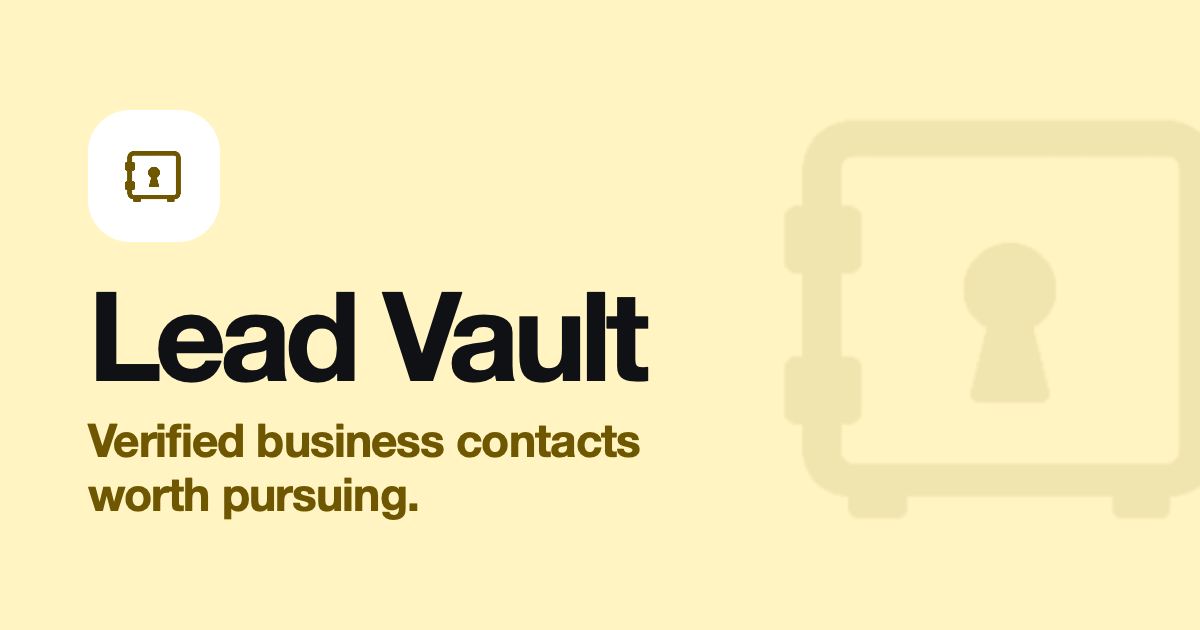
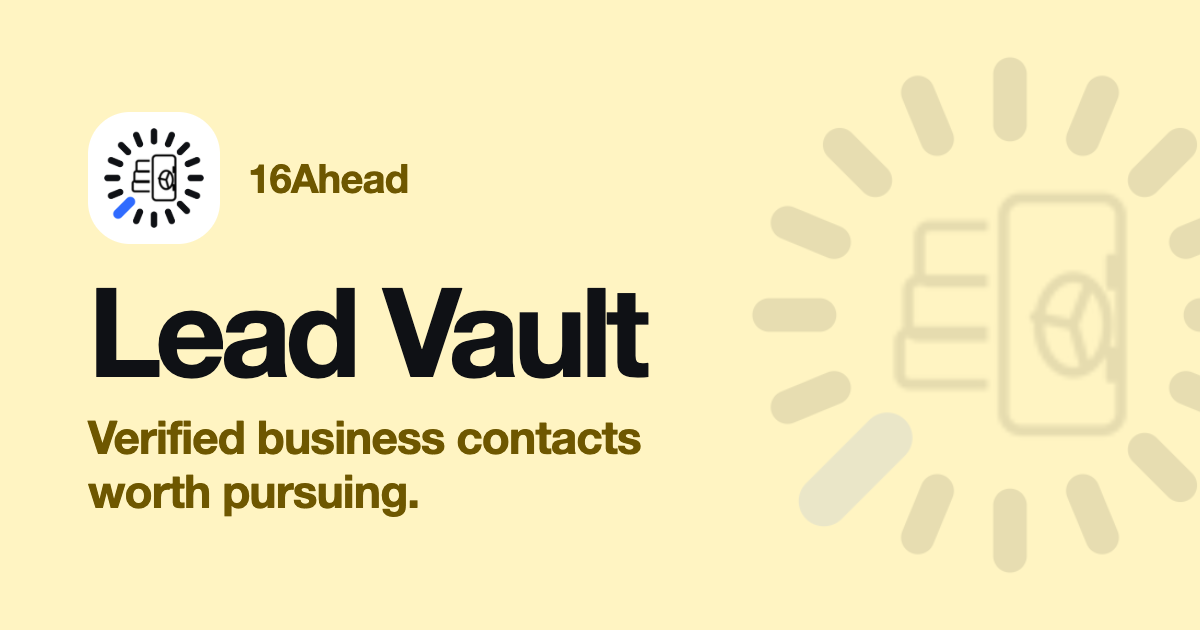
16ahead migration

diff --git a/src/app/shared/page/command-palette/command-palette-entries.ts b/src/app/shared/page/command-palette/command-palette-entries.ts
@@ -20,18 +20,18 @@ export const COMMAND_PALETTE_ENTRIES: CommandPaletteEntry[] = [
   { id: 'lead-vault-cancel', label: 'Purchase Cancelled', group: 'Lead Vault', path: '/cancel', keywords: ['cancel', 'cancelled', 'checkout cancelled', 'purchase cancelled'] },
 
   // --- Other Apps -----------------------------------------------------------
-  { id: 'app-maya', label: 'Maya', group: 'Other Apps', path: 'https://maya.taliferro.tech', icon: 'assets/find/entities/maya/logo-bw-icon.png', external: true, keywords: ['maya', 'marketing director'] },
-  { id: 'app-todd', label: 'Ask TODD', group: 'Other Apps', path: 'https://ask.taliferro.tech', icon: 'assets/find/entities/todd/logo-bw-icon.png', external: true, keywords: ['todd', 'ask todd', 'assistant', 'chat'] },
-  { id: 'app-docs', label: 'Docs', group: 'Other Apps', path: 'https://docs.taliferro.tech', icon: 'assets/find/entities/docs/logo-bw-icon.png', external: true, keywords: ['docs', 'documents', 'proposals', 'contracts'] },
-  { id: 'app-signature', label: 'Email Signature Builder', group: 'Other Apps', path: 'https://signature.taliferro.tech', icon: 'assets/find/entities/email-signature-builder/logo-bw-icon.png', external: true, keywords: ['email signature', 'signature builder'] },
-  { id: 'app-image-creator', label: 'Image Creator', group: 'Other Apps', path: 'https://images.taliferro.tech', icon: 'assets/find/entities/image-creator/logo-bw-icon.svg', external: true, keywords: ['image creator', 'images', 'generate image', 'logo', 'icon', 'banner'] },
-  { id: 'app-email-creator', label: 'Email Creator', group: 'Other Apps', path: 'https://emails.taliferro.tech', icon: 'assets/find/entities/email-creator/logo-bw-icon.svg', external: true, keywords: ['email creator', 'email design', 'newsletter', 'html email', 'template', 'announcement'] },
-  { id: 'app-find', label: 'Find', group: 'Other Apps', path: 'https://find.taliferro.tech', icon: 'assets/find/entities/find/logo-bw-icon.png', external: true, keywords: ['find', 'ask a question'] },
-  { id: 'app-moves', label: 'Moves', group: 'Other Apps', path: 'https://moves.taliferro.tech', icon: 'assets/find/entities/moves/logo-bw-icon.png', external: true, keywords: ['moves', 'tasks', 'projects', 'to-dos'] },
-  { id: 'app-network', label: 'Network', group: 'Other Apps', path: 'https://network.taliferro.tech', icon: 'assets/find/entities/network/logo-bw-icon.png', external: true, keywords: ['network', 'contacts', 'crm', 'relationships'] },
-  { id: 'app-outreach', label: 'Outreach', group: 'Other Apps', path: 'https://outreach.taliferro.tech', icon: 'assets/find/entities/outreach/logo-bw-icon.png', external: true, keywords: ['outreach', 'campaigns', 'sequences', 'email marketing'] },
-  { id: 'app-pulse', label: 'Pulse', group: 'Other Apps', path: 'https://pulse.taliferro.tech', icon: 'assets/find/entities/pulse/logo-bw-icon.png', external: true, keywords: ['pulse', 'surveys', 'feedback', 'nps'] },
-  { id: 'app-sayit', label: 'SayIt', group: 'Other Apps', path: 'https://sayit.taliferro.tech', icon: 'assets/find/entities/sayit/logo-bw-icon.png', external: true, keywords: ['sayit', 'say it'] },
-  { id: 'app-social', label: 'Social', group: 'Other Apps', path: 'https://social.taliferro.tech', icon: 'assets/find/entities/social/logo-bw-icon.png', external: true, keywords: ['social', 'social media'] },
+  { id: 'app-maya', label: 'Marketing Assistant', group: 'Other Apps', path: 'https://marketing.16ahead.com', icon: 'assets/find/entities/maya/logo-bw-icon.png', external: true, keywords: ['maya', 'marketing director'] },
+  { id: 'app-todd', label: 'General Assistant', group: 'Other Apps', path: 'https://assistant.16ahead.com', icon: 'assets/find/entities/todd/logo-bw-icon.png', external: true, keywords: ['todd', 'ask todd', 'assistant', 'chat'] },
+  { id: 'app-docs', label: 'Docs', group: 'Other Apps', path: 'https://docs.16ahead.com', icon: 'assets/find/entities/docs/logo-bw-icon.png', external: true, keywords: ['docs', 'documents', 'proposals', 'contracts'] },
+  { id: 'app-signature', label: 'Email Signature Builder', group: 'Other Apps', path: 'https://signature.16ahead.com', icon: 'assets/find/entities/email-signature-builder/logo-bw-icon.png', external: true, keywords: ['email signature', 'signature builder'] },
+  { id: 'app-image-creator', label: 'Image Creator', group: 'Other Apps', path: 'https://images.16ahead.com', icon: 'assets/find/entities/image-creator/logo-bw-icon.svg', external: true, keywords: ['image creator', 'images', 'generate image', 'logo', 'icon', 'banner'] },
+  { id: 'app-email-creator', label: 'Email Creator', group: 'Other Apps', path: 'https://emails.16ahead.com', icon: 'assets/find/entities/email-creator/logo-bw-icon.svg', external: true, keywords: ['email creator', 'email design', 'newsletter', 'html email', 'template', 'announcement'] },
+  { id: 'app-find', label: 'Find', group: 'Other Apps', path: 'https://find.16ahead.com', icon: 'assets/find/entities/find/logo-bw-icon.png', external: true, keywords: ['find', 'ask a question'] },
+  { id: 'app-moves', label: 'Moves', group: 'Other Apps', path: 'https://moves.16ahead.com', icon: 'assets/find/entities/moves/logo-bw-icon.png', external: true, keywords: ['moves', 'tasks', 'projects', 'to-dos'] },
+  { id: 'app-network', label: 'Network', group: 'Other Apps', path: 'https://network.16ahead.com', icon: 'assets/find/entities/network/logo-bw-icon.png', external: true, keywords: ['network', 'contacts', 'crm', 'relationships'] },
+  { id: 'app-outreach', label: 'Outreach', group: 'Other Apps', path: 'https://outreach.16ahead.com', icon: 'assets/find/entities/outreach/logo-bw-icon.png', external: true, keywords: ['outreach', 'campaigns', 'sequences', 'email marketing'] },
+  { id: 'app-pulse', label: 'Pulse', group: 'Other Apps', path: 'https://pulse.16ahead.com', icon: 'assets/find/entities/pulse/logo-bw-icon.png', external: true, keywords: ['pulse', 'surveys', 'feedback', 'nps'] },
+  { id: 'app-sayit', label: 'SayIt', group: 'Other Apps', path: 'https://sayit.16ahead.com', icon: 'assets/find/entities/sayit/logo-bw-icon.png', external: true, keywords: ['sayit', 'say it'] },
+  { id: 'app-social', label: 'Social', group: 'Other Apps', path: 'https://social.16ahead.com', icon: 'assets/find/entities/social/logo-bw-icon.png', external: true, keywords: ['social', 'social media'] },
   { id: 'app-music', label: 'Taliferro Music', group: 'Other Apps', path: 'https://music.taliferro.com', icon: 'assets/find/entities/music/logo-bw-icon.png', external: true, newTab: true, keywords: ['music', 'stream music'] },
 ];

diff --git a/src/app/features/full-record-page/full-record-page.component.ts b/src/app/features/full-record-page/full-record-page.component.ts
@@ -42,7 +42,7 @@ import { LoggerService } from '../../services/logger.service';
  *    - an in-app TODD route. Per the plan's decision, Outreach/email-
  *    composition isn't part of either extracted product, so this is now a
  *    real cross-app navigation to the monorepo's own production domain
- *    (https://todd.taliferro.tech/compose-email, confirmed from the
+ *    (https://app.16ahead.com/compose-email, confirmed from the
  *    monorepo's own environment.prod.ts PLATFORM_URL - not a guess). Best-
  *    effort query params (email/firstName/lastName/company) are attached
  *    in case the monorepo's compose-email flow ever reads them, but there
@@ -64,7 +64,7 @@ import { LoggerService } from '../../services/logger.service';
 } )
 export class FullRecordPageComponent implements OnInit {
   /** The monorepo's real production domain - see header comment. */
-  readonly toddHomeUrl = 'https://todd.taliferro.tech';
+  readonly toddHomeUrl = 'https://app.16ahead.com';
 
   recordId = '';
   purchaserEmail = '';
@@ -169,7 +169,7 @@ export class FullRecordPageComponent implements OnInit {
 
     if ( !this.purchaserEmail ) {
       this.isLoading = false;
-      this.errorMessage = 'Sign in with TODD, or open this lead from the email you purchased it with.';
+      this.errorMessage = 'Sign in with 16Ahead, or open this lead from the email you purchased it with.';
       return;
     }
 
@@ -317,7 +317,7 @@ export class FullRecordPageComponent implements OnInit {
     }
 
     if ( !this.accessState.isPaidUser && !this.accessState.canAddContact ) {
-      this.actionErrorMessage = 'Adding leads to TODD needs a Network subscription.';
+      this.actionErrorMessage = 'Adding leads to 16Ahead needs a Network subscription.';
       return;
     }
 
@@ -334,19 +334,19 @@ export class FullRecordPageComponent implements OnInit {
       const tenantId = uid ? await this.authService.resolveTenantId( uid ) : '';
 
       if ( !tenantId ) {
-        this.actionErrorMessage = 'Unable to resolve your TODD tenant. Please sign in again.';
+        this.actionErrorMessage = 'Unable to resolve your 16Ahead tenant. Please sign in again.';
         return;
       }
 
       const existingId = await this.dataService.getContactIdByEmail( tenantId, newContact.email || '' );
 
       if ( existingId ) {
-        this.actionMessage = 'This lead is already in TODD.';
+        this.actionMessage = 'This lead is already in 16Ahead.';
         return;
       }
 
       await this.dataService.addContact( tenantId, newContact );
-      this.actionMessage = 'Lead added to TODD.';
+      this.actionMessage = 'Lead added to 16Ahead.';
       await this.refreshAccessState();
     } catch ( error: any ) {
       if ( this.contactPackService.isContactLimitError( error ) ) {
@@ -361,7 +361,7 @@ export class FullRecordPageComponent implements OnInit {
         return;
       }
 
-      this.actionErrorMessage = error?.message || 'Unable to add this lead to TODD.';
+      this.actionErrorMessage = error?.message || 'Unable to add this lead to 16Ahead.';
     } finally {
       this.addToToddInProgress = false;
     }
@@ -374,7 +374,7 @@ export class FullRecordPageComponent implements OnInit {
    */
   onComposeInToddFromLead ( event?: { contact: Contact | null; emailAddress: string | undefined; } ): void {
     if ( !this.accessState?.isLoggedIn ) {
-      this.actionErrorMessage = 'Sign in to email this lead in TODD.';
+      this.actionErrorMessage = 'Sign in to email this lead in 16Ahead.';
       return;
     }
 
@@ -759,7 +759,7 @@ export class FullRecordPageComponent implements OnInit {
         this.recommendationErrorMessage = '';
         this.isLoading = false;
         this.errorMessage = error?.status === 403
-          ? `No access to this lead for ${this.purchaserEmail}. Sign in with a TODD Suite account, or unlock it from the preview.`
+          ? `No access to this lead for ${this.purchaserEmail}. Sign in with a 16Ahead Suite account, or unlock it from the preview.`
           : error?.error?.message ||
             error?.message ||
             'Lead Vault full record failed.';

diff --git a/src/app/features/full-record-page/full-record-page.component.html b/src/app/features/full-record-page/full-record-page.component.html
@@ -7,7 +7,7 @@
 
   <div class="lvf-gate" *ngIf="errorMessage">
     <p class="lv-error" role="alert">{{ errorMessage }}</p>
-    <button *ngIf="!accessState?.isLoggedIn" type="button" class="lv-btn lv-btn--primary" (click)="signInToTodd()">Sign in with TODD</button>
+    <button *ngIf="!accessState?.isLoggedIn" type="button" class="lv-btn lv-btn--primary" (click)="signInToTodd()">Sign in with 16Ahead</button>
   </div>
   <app-preloader [isLoading]="isLoading" message="Loading full record…"></app-preloader>
 
@@ -32,9 +32,9 @@
           <svg class="lv-icon" viewBox="0 0 24 24" aria-hidden="true"><path d="M15 2H6a2 2 0 0 0-2 2v16a2 2 0 0 0 2 2h12a2 2 0 0 0 2-2V7Z"/><path d="M14 2v4a2 2 0 0 0 2 2h4"/></svg>Copy full record
         </button>
         <button *ngIf="accessState?.isLoggedIn" type="button" class="lv-btn lv-btn--primary" [disabled]="addToToddInProgress" (click)="addToTodd()">
-          <svg class="lv-icon" viewBox="0 0 24 24" aria-hidden="true"><path d="M12 5v14M5 12h14"/></svg>{{ addToToddInProgress ? 'Adding…' : 'Add to TODD' }}
+          <svg class="lv-icon" viewBox="0 0 24 24" aria-hidden="true"><path d="M12 5v14M5 12h14"/></svg>{{ addToToddInProgress ? 'Adding…' : 'Add to 16Ahead' }}
         </button>
-        <button *ngIf="!accessState?.isLoggedIn" type="button" class="lv-btn lv-btn--primary" (click)="signInToTodd()">Sign in to add this lead to TODD</button>
+        <button *ngIf="!accessState?.isLoggedIn" type="button" class="lv-btn lv-btn--primary" (click)="signInToTodd()">Sign in to add this lead to 16Ahead</button>
       </div>
     </div>
 
@@ -61,9 +61,9 @@
     <!-- iPhone (14l): one big Add to TODD, a 3-up action grid, then the recommendation row. -->
     <div class="lvf-phone-actions">
       <button *ngIf="accessState?.isLoggedIn" type="button" class="lv-btn lv-btn--primary lvf-phone-add" [disabled]="addToToddInProgress" (click)="addToTodd()">
-        <svg class="lv-icon" viewBox="0 0 24 24" aria-hidden="true"><path d="M12 5v14M5 12h14"/></svg>{{ addToToddInProgress ? 'Adding…' : 'Add to TODD' }}
+        <svg class="lv-icon" viewBox="0 0 24 24" aria-hidden="true"><path d="M12 5v14M5 12h14"/></svg>{{ addToToddInProgress ? 'Adding…' : 'Add to 16Ahead' }}
       </button>
-      <button *ngIf="!accessState?.isLoggedIn" type="button" class="lv-btn lv-btn--primary lvf-phone-add" (click)="signInToTodd()">Sign in to add this lead to TODD</button>
+      <button *ngIf="!accessState?.isLoggedIn" type="button" class="lv-btn lv-btn--primary lvf-phone-add" (click)="signInToTodd()">Sign in to add this lead to 16Ahead</button>
       <div class="lvf-tiles">
         <button type="button" (click)="downloadCsv()"><svg class="lv-icon" viewBox="0 0 24 24" aria-hidden="true"><path d="M21 15v4a2 2 0 0 1-2 2H5a2 2 0 0 1-2-2v-4M7 10l5 5 5-5M12 15V3"/></svg>CSV</button>
         <button type="button" (click)="copyEmail()"><svg class="lv-icon" viewBox="0 0 24 24" aria-hidden="true"><rect width="14" height="14" x="8" y="8" rx="2"/><path d="M4 16c-1.1 0-2-.9-2-2V4c0-1.1.9-2 2-2h10c1.1 0 2 .9 2 2"/></svg>Copy email</button>
@@ -126,7 +126,7 @@
             <span class="lv-chip" *ngFor="let capability of record.company?.capabilities">{{ capability }}</span>
           </div>
         </ng-container>
-        <p class="lvf-note" *ngIf="accessState?.isLoggedIn && !accessState?.isPaidUser">Adding leads to TODD needs a Network subscription.</p>
+        <p class="lvf-note" *ngIf="accessState?.isLoggedIn && !accessState?.isPaidUser">Adding leads to 16Ahead needs a Network subscription.</p>
       </section>
 
       <section class="lvf-rec" id="lvf-recommendation" aria-labelledby="lvf-rec-title">

diff --git a/src/index.html b/src/index.html
@@ -2,28 +2,28 @@
 <html lang="en">
 <head>
   <meta charset="utf-8">
-  <title>Lead Vault — Find better business leads | Taliferro Tech</title>
+  <title>Lead Vault — Find better business leads | 16Ahead</title>
   <base href="/">
   <meta name="viewport" content="width=device-width, initial-scale=1">
   <meta name="description" content="Search curated and enriched business contacts by company, industry, capability, or buying signal. Find the right lead and unlock the context to start a better conversation.">
   <meta name="robots" content="index, follow">
-  <link rel="canonical" href="https://lead-vault.taliferro.tech/">
+  <link rel="canonical" href="https://lead-vault.16ahead.com/">
 
   <meta property="og:type" content="website">
-  <meta property="og:title" content="Lead Vault — Find better business leads">
+  <meta property="og:site_name" content="16Ahead">
+  <meta property="og:title" content="16Ahead Lead Vault">
   <meta property="og:description" content="Verified business contacts worth pursuing.">
-  <meta property="og:url" content="https://lead-vault.taliferro.tech/">
-  <meta property="og:site_name" content="Taliferro Tech">
-
-  <meta name="twitter:card" content="summary_large_image">
-  <meta name="twitter:title" content="Lead Vault — Find better business leads">
-  <meta name="twitter:description" content="Verified business contacts worth pursuing.">
-  <meta property="og:image" content="https://lead-vault.taliferro.tech/assets/og-image.png">
+  <meta property="og:url" content="https://lead-vault.16ahead.com/">
+  <meta property="og:image" content="https://lead-vault.16ahead.com/assets/og-image.png">
   <meta property="og:image:width" content="1200">
   <meta property="og:image:height" content="630">
-  <meta property="og:image:alt" content="Lead Vault: Verified business contacts worth pursuing">
-  <meta name="twitter:image" content="https://lead-vault.taliferro.tech/assets/og-image.png">
-  <meta name="twitter:image:alt" content="Lead Vault: Verified business contacts worth pursuing">
+  <meta property="og:image:alt" content="16Ahead Lead Vault: Verified business contacts worth pursuing.">
+  <meta name="twitter:card" content="summary_large_image">
+  <meta name="twitter:title" content="16Ahead Lead Vault">
+  <meta name="twitter:description" content="Verified business contacts worth pursuing.">
+  <meta name="twitter:image" content="https://lead-vault.16ahead.com/assets/og-image.png">
+  <meta name="twitter:image:alt" content="16Ahead Lead Vault: Verified business contacts worth pursuing.">
+
 
   <meta name="theme-color" content="#ffffff">
   <!-- Applies a stored Light/Dark choice before first paint (taliferro-ui/platform/theme.ts). -->

diff --git a/src/app/features/search-page/search-page.component.ts b/src/app/features/search-page/search-page.component.ts
@@ -44,7 +44,7 @@ import { AlsoFromUsComponent } from '../../shared/also-from-us/also-from-us.comp
  *
  * Route targets shortened for this app: /lead-vault/record/:id -> /record/:id.
  * The header's "TODD Home" link now points at the monorepo's real
- * production domain (https://todd.taliferro.tech, confirmed from the
+ * production domain (https://app.16ahead.com, confirmed from the
  * monorepo's own environment.prod.ts PLATFORM_URL) rather than this app's
  * own "/" - "/" here IS the Lead Vault search page itself, so a
  * self-referential "home" link would be confusing.
@@ -75,7 +75,7 @@ type LeadVaultMode = 'validate' | 'search';
 } )
 export class SearchPageComponent implements OnInit, OnDestroy {
   /** The monorepo's real production domain - see header comment. */
-  readonly toddHomeUrl = 'https://todd.taliferro.tech';
+  readonly toddHomeUrl = 'https://app.16ahead.com';
   readonly appVersion = VERSION;
   readonly viewer$ = inject( LeadVaultViewerService ).viewer$;
   private readonly matchStore = inject( MatchStore );
@@ -258,8 +258,8 @@ export class SearchPageComponent implements OnInit, OnDestroy {
         this.preparedSetStatus = String( preparedSet?.status || '' ).trim();
         this.preparedSetCandidateCount = Number( preparedSet?.candidateCount || candidates.length || 0 );
         this.preparedSetMessage = this.preparedSetCandidateCount > 0
-          ? `TODD staged ${this.preparedSetCandidateCount} lead candidate${this.preparedSetCandidateCount === 1 ? '' : 's'} for this momentum push.`
-          : 'TODD did not find enough qualified leads to stage automatically.';
+          ? `16Ahead staged ${this.preparedSetCandidateCount} lead candidate${this.preparedSetCandidateCount === 1 ? '' : 's'} for this momentum push.`
+          : '16Ahead did not find enough qualified leads to stage automatically.';
         this.results = this.normalizeResults( candidates.map( ( candidate: any ) => ( {
           id: String( candidate?.recordId || candidate?.id || '' ).trim(),
           teaserName: String( candidate?.teaserName || '' ).trim(),
@@ -279,7 +279,7 @@ export class SearchPageComponent implements OnInit, OnDestroy {
         this.preparedSetStatus = 'error';
         this.preparedSetCandidateCount = 0;
         this.preparedSetMessage = '';
-        this.errorMessage = error?.error?.message || error?.message || 'TODD could not load the prepared lead set.';
+        this.errorMessage = error?.error?.message || error?.message || '16Ahead could not load the prepared lead set.';
         this.publishPageContext();
       }
     } );

diff --git a/src/app/features/about/about.component.ts b/src/app/features/about/about.component.ts
@@ -32,10 +32,10 @@ export class AboutComponent implements OnInit, OnDestroy {
     this.meta.updateTag({ name: 'description', content: description });
     this.meta.updateTag({ property: 'og:title', content: pageTitle });
     this.meta.updateTag({ property: 'og:description', content: description });
-    this.meta.updateTag({ property: 'og:url', content: 'https://lead-vault.taliferro.tech/about' });
+    this.meta.updateTag({ property: 'og:url', content: 'https://lead-vault.16ahead.com/about' });
     this.meta.updateTag({ name: 'twitter:title', content: pageTitle });
     this.meta.updateTag({ name: 'twitter:description', content: description });
-    this.seo.setCanonical('https://lead-vault.taliferro.tech/about');
+    this.seo.setCanonical('https://lead-vault.16ahead.com/about');
     this.addStructuredData();
   }
 
@@ -61,14 +61,14 @@ export class AboutComponent implements OnInit, OnDestroy {
         },
         {
           '@type': 'SoftwareApplication',
-          '@id': 'https://lead-vault.taliferro.tech/#software',
+          '@id': 'https://lead-vault.16ahead.com/#software',
           name: 'Lead Vault',
-          url: 'https://lead-vault.taliferro.tech/',
+          url: 'https://lead-vault.16ahead.com/',
           description: 'Lead Vault is a business-lead search and enrichment tool: search curated contacts by company, industry, capability, or buying signal, preview a masked teaser for free, and unlock the full record when you need it.',
           applicationCategory: 'BusinessApplication',
           applicationSubCategory: 'Lead generation',
           operatingSystem: 'Web',
-          image: 'https://lead-vault.taliferro.tech/assets/lead-vault/hero.webp',
+          image: 'https://lead-vault.16ahead.com/assets/lead-vault/hero.webp',
           creator: { '@id': 'https://taliferro.com/#organization' },
           publisher: { '@id': 'https://taliferro.com/#organization' },
         },

diff --git a/src/app/features/search-page/search-page.component.html b/src/app/features/search-page/search-page.component.html
@@ -45,7 +45,7 @@
     <p class="lv-helper lv-ways__helper">Anything typed in the search box carries into the Keywords field if you pick either option.</p>
   </section>
 
-  <p class="tt-made-by lv-made-by" *ngIf="showHero"><a href="https://todd.taliferro.tech" target="_blank" rel="noopener"><span class="tt-made-by__todd"><img src="assets/find/entities/todd/logo-bw-icon.png" alt="" /></span>Powered by <strong>TODD</strong></a><i aria-hidden="true"></i><a appAlsoFromUs></a></p>
+  <p class="tt-made-by lv-made-by" *ngIf="showHero"><a href="https://app.16ahead.com" target="_blank" rel="noopener"><span class="tt-made-by__todd"><img src="assets/find/entities/todd/logo-bw-icon.png" alt="" /></span>Powered by <strong>16Ahead</strong></a><i aria-hidden="true"></i><a appAlsoFromUs></a></p>
 
   <p class="lv-error" role="alert" *ngIf="errorMessage">{{ errorMessage }}</p>
 
@@ -81,7 +81,7 @@
     <ng-container *ngIf="viewer$ | async as viewer">
       <div class="lv-results__meta">
         <span>Showing {{ results.length }} of {{ totalResults || results.length }}<ng-container *ngIf="!viewer.hasFullAccess"> · free masked previews</ng-container><ng-container *ngIf="viewer.hasFullAccess"> · {{ viewer.label }}</ng-container></span>
-        <button *ngIf="moreRequiresSignIn && viewer.status === 'signed-out'" type="button" class="lv-results__signin" (click)="signInForMoreResults()">Sign in with TODD to see all</button>
+        <button *ngIf="moreRequiresSignIn && viewer.status === 'signed-out'" type="button" class="lv-results__signin" (click)="signInForMoreResults()">Sign in with 16Ahead to see all</button>
       </div>
 
       <div class="lv-grid">

diff --git a/src/app/shared/account-chip/account-chip.component.html b/src/app/shared/account-chip/account-chip.component.html
@@ -1,6 +1,6 @@
 <ng-container *ngIf="viewer$ | async as viewer">
   <button *ngIf="viewer.status !== 'signed-in'" type="button" class="ah-pill ah-pill--wide" (click)="signIn()">
-    <span class="ah-dot" aria-hidden="true"></span>Sign in with TODD
+    <span class="ah-dot" aria-hidden="true"></span>Sign in with 16Ahead
   </button>
 
   <ng-container *ngIf="viewer.status === 'signed-in'">
@@ -18,11 +18,11 @@
 
     <div class="account-chip__overlay" *ngIf="isOpen" (click)="isOpen = false"></div>
     <div id="account-chip-panel" class="account-chip__panel" *ngIf="isOpen" role="dialog" aria-label="Account">
-      <p class="account-chip__panel-eyebrow">Signed in to TODD</p>
+      <p class="account-chip__panel-eyebrow">Signed in to 16Ahead</p>
       <p class="account-chip__panel-email">{{ viewer.email }}</p>
       <p class="account-chip__panel-copy" [ngSwitch]="viewer.accessLevel">
         <span *ngSwitchCase="'master-tenant'">Master tenant — every Lead Vault record opens in full.</span>
-        <span *ngSwitchCase="'suite-subscriber'">Your TODD Suite subscription opens every Lead Vault record.</span>
+        <span *ngSwitchCase="'suite-subscriber'">Your 16Ahead Suite subscription opens every Lead Vault record.</span>
         <span *ngSwitchCase="'unlimited-subscriber'">Lead Vault Unlimited opens every record.</span>
         <span *ngSwitchCase="'free-trial-available'">You have one free reveal. Pick any lead to use it.</span>
         <span *ngSwitchDefault>Records you've purchased open with this email. Others unlock for $29 each.</span>

diff --git a/src/app/features/about/about.component.html b/src/app/features/about/about.component.html
@@ -7,7 +7,7 @@
 
   <header class="lvi-hero">
     <div class="lvi-hero__copy">
-      <p class="lvi-context"><span class="lv-tag">About</span><span class="lv-eyebrow">A Taliferro Tech product · Part of TODD</span></p>
+      <p class="lvi-context"><span class="lv-tag">About</span><span class="lv-eyebrow">A Taliferro Tech product · Part of 16Ahead</span></p>
       <h1>Find the right lead, then unlock it.</h1>
       <p class="lvi-lead">Lead Vault searches curated and enriched business contacts by company, industry, capability, or buying signal. Every result previews as a masked teaser for free — you unlock the full contact only when it's worth it.</p>
     </div>
@@ -28,7 +28,7 @@
     <article class="lvi-card">
       <span class="lv-eyebrow">Who made it</span>
       <h2>Taliferro Tech, LLC.</h2>
-      <p>Lead Vault is made by Taliferro Tech and is part of TODD, the Momentum System. Taliferro Tech creates connected software products that help people move from information to action.</p>
+      <p>Lead Vault is made by Taliferro Tech and is part of 16Ahead, the Momentum System. Taliferro Tech creates connected software products that help people move from information to action.</p>
       <a class="lvi-out" href="https://taliferro.com" target="_blank" rel="noopener noreferrer">Visit Taliferro Tech <span aria-hidden="true">↗</span></a>
     </article>
     <article class="lvi-card lvi-card--tint">

diff --git a/src/app/features/preview-page/preview-page.component.html b/src/app/features/preview-page/preview-page.component.html
@@ -106,11 +106,11 @@
         <p>One-time purchase. No subscription required.</p>
         <p>Already purchased? We'll open the record immediately.</p>
       </div>
-      <p class="lvp-trust lvp-narrow">One-time purchase.<ng-container *ngIf="viewer?.status === 'signed-out'"> Suite subscriber? <button type="button" class="lvp-inline-signin" (click)="signInToTodd()">Sign in with TODD</button></ng-container></p>
+      <p class="lvp-trust lvp-narrow">One-time purchase.<ng-container *ngIf="viewer?.status === 'signed-out'"> Suite subscriber? <button type="button" class="lvp-inline-signin" (click)="signInToTodd()">Sign in with 16Ahead</button></ng-container></p>
 
       <div class="lvp-suite lvp-wide" *ngIf="viewer?.status === 'signed-out'">
-        <p>TODD Suite subscriber? Sign in and every Lead Vault record opens in full.</p>
-        <button type="button" class="lv-btn lv-btn--on-surface" (click)="signInToTodd()">Sign in with TODD</button>
+        <p>16Ahead Suite subscriber? Sign in and every Lead Vault record opens in full.</p>
+        <button type="button" class="lv-btn lv-btn--on-surface" (click)="signInToTodd()">Sign in with 16Ahead</button>
       </div>
       <p class="lvp-suite lvp-wide" *ngIf="viewer?.status === 'signed-in'">
         Signed in as <strong>{{ viewer?.email }}</strong> · {{ viewer?.label }}

diff --git a/src/app/features/match/results-step.component.ts b/src/app/features/match/results-step.component.ts
@@ -66,9 +66,9 @@ import { MatchResult } from './match.models';
             <div class="lvm-best__body">
               <span class="lvm-best__tag">✦ AI best match</span>
               <h2>See which one the AI would pick</h2>
-              <p class="lvm-best__reason">Sign in with TODD and the AI reads these results and explains its single best pick.</p>
+              <p class="lvm-best__reason">Sign in with 16Ahead and the AI reads these results and explains its single best pick.</p>
             </div>
-            <button type="button" class="lv-btn lvm-btn--blue" (click)="signIn()">Sign in with TODD</button>
+            <button type="button" class="lv-btn lvm-btn--blue" (click)="signIn()">Sign in with 16Ahead</button>
           </section>
         }
         @case ( 'error' ) {
@@ -120,7 +120,7 @@ import { MatchResult } from './match.models';
         </div>
       } @else if ( signedOutAndCapped() ) {
         <div class="lvm-more-row">
-          <button type="button" class="lv-btn" (click)="signIn()">Sign in with TODD to see all {{ store.total().toLocaleString() }}</button>
+          <button type="button" class="lv-btn" (click)="signIn()">Sign in with 16Ahead to see all {{ store.total().toLocaleString() }}</button>
         </div>
       }
     </main>

diff --git a/src/app/shared/email-option-button/email-option-button.component.html b/src/app/shared/email-option-button/email-option-button.component.html
@@ -1,9 +1,9 @@
 <div class="email-option-buttons" [ngClass]="{ 'email-option-buttons--icon': displayMode === 'icon' }">
-  <button type="button" class="email-option-button email-option-button--todd" [ngClass]="{ 'email-option-button--icon-only': displayMode === 'icon' }" (click)="onComposeInToddClick($event)" title="Compose in TODD">
+  <button type="button" class="email-option-button email-option-button--todd" [ngClass]="{ 'email-option-button--icon-only': displayMode === 'icon' }" (click)="onComposeInToddClick($event)" title="Compose in 16Ahead">
     <span class="email-option-button__icon">
       <i class="fa fa-envelope-open-text" aria-hidden="true"></i>
     </span>
-    <span class="email-option-button__label" *ngIf="displayMode === 'button'"> Use TODD </span>
+    <span class="email-option-button__label" *ngIf="displayMode === 'button'"> Use 16Ahead </span>
   </button>
   <button type="button" class="email-option-button email-option-button--native" [ngClass]="{ 'email-option-button--icon-only': displayMode === 'icon' }" (click)="onComposeInNativeClick($event)" title="Compose in email app">
     <span class="email-option-button__icon">
